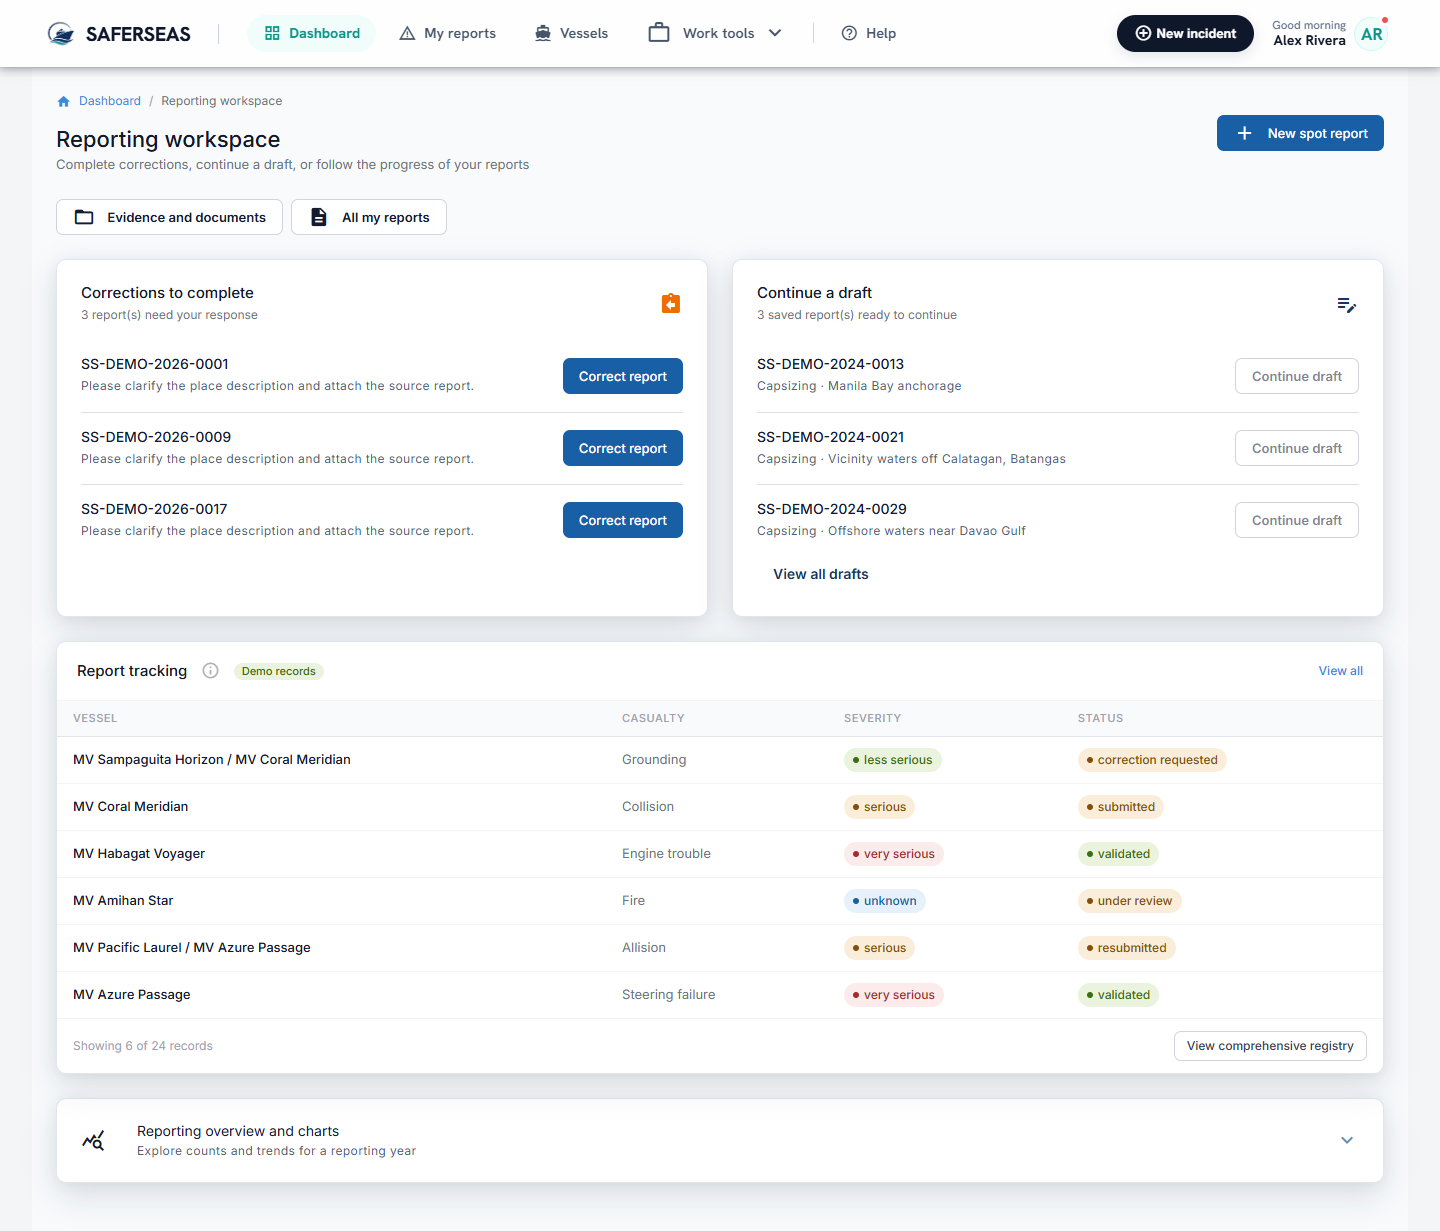
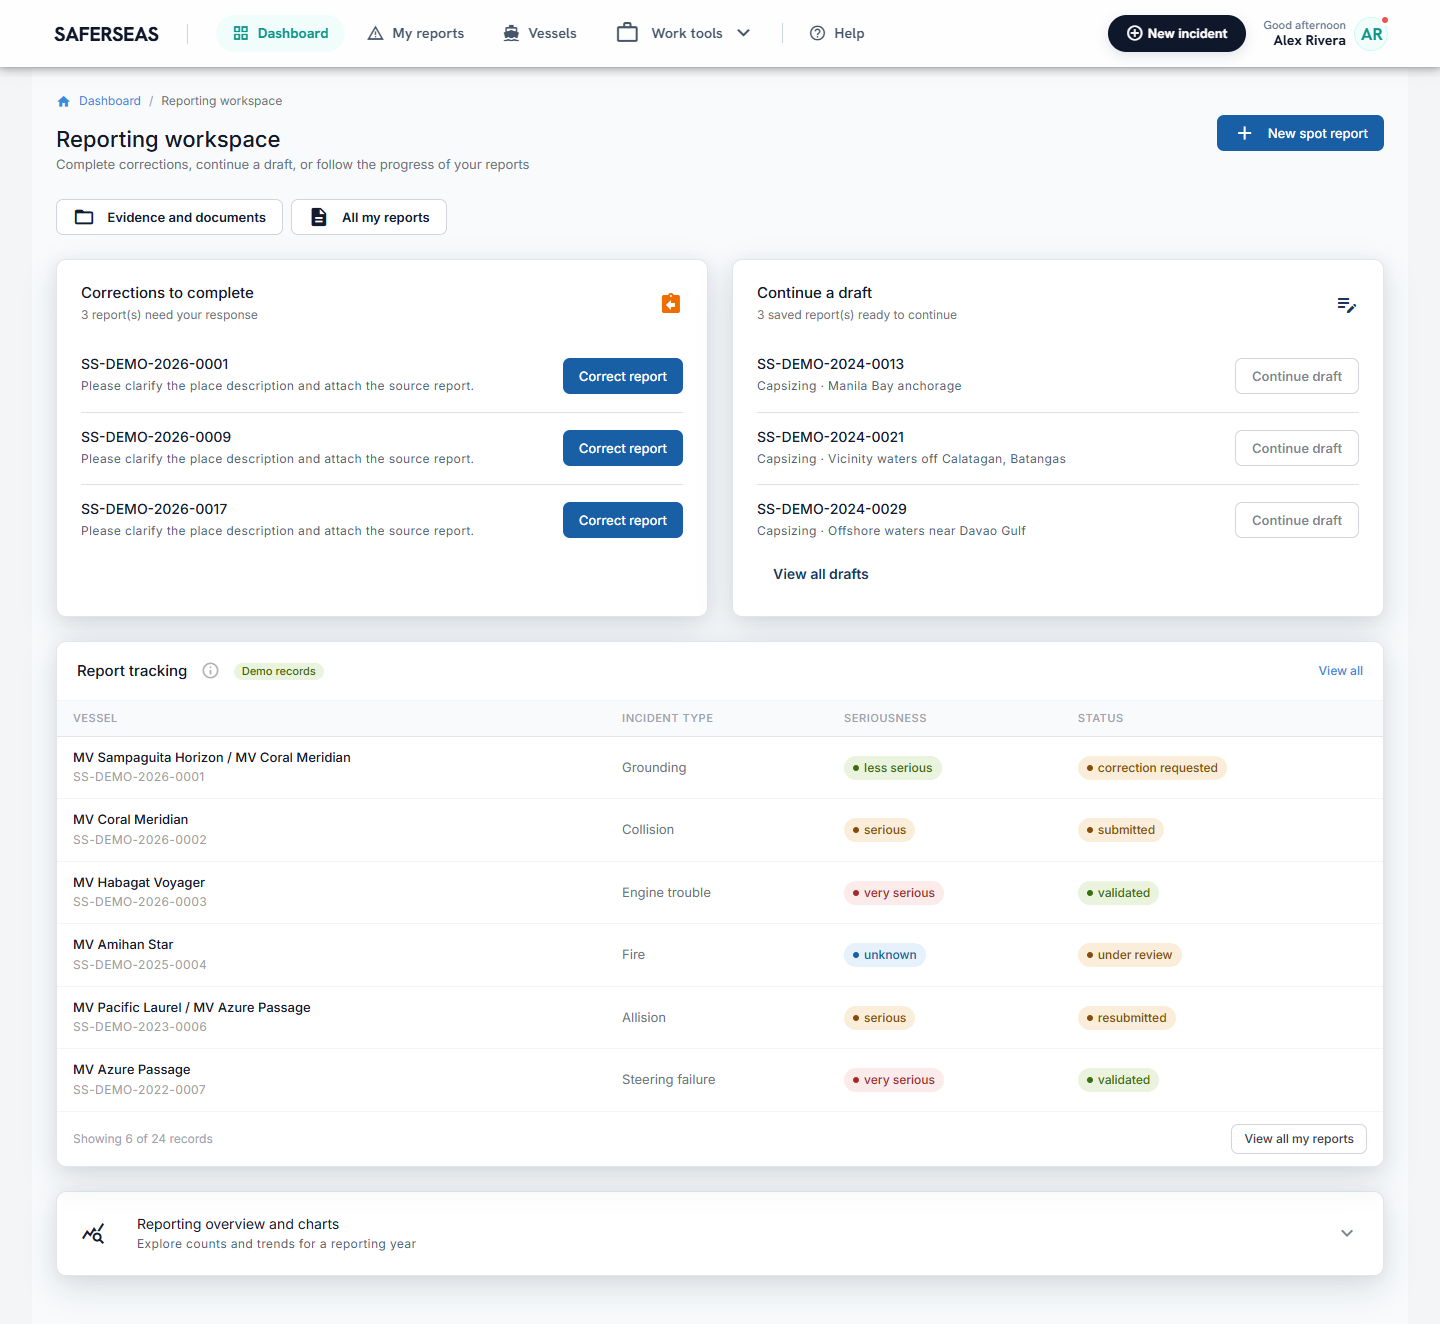
Record verified desktop usability deployment [skip ci]

diff --git a/prototype/docs/PROGRESS.md b/prototype/docs/PROGRESS.md
@@ -7,7 +7,7 @@ User approved the complete Vue/Quasar mockup, verification and update of the exi
 - Operations, MAIC revisions, cases/actions, registry and administration: complete.
 - Imports, reconciliation, 22 outputs, GIS, analytics, risk/policy: complete within documented prototype boundaries.
 - Developer handoff, 49-ID/22-output mapping, independent defect review and browser acceptance: complete.
-- Repository integration and live Pages verification: complete. Published source b5d841c; GitHub Actions run 42156571634 succeeded and the live site passed acceptance.
+- Repository integration and live Pages verification: complete. Latest published source a0fe102; GitHub Actions run 42161871084 succeeded and the desktop site passed acceptance.
 
 Material review fixes include scoped linked records/artifact history; preserved evidence and unique references on draft discard; visible storage failure; immutable complete output snapshots; archive access after import reversal; saved MAIC/spot observations/evidence; and retained import blockers. See tests and acceptance results.
 
@@ -19,7 +19,7 @@ Confirmed types: MRO Reporter, MRO Reviewer, MARINA Investigator. The user expli
 
 Completed: corrections/drafts first; compact essential intake; shared operational tools; labeled grouped navigation; received/update review queue; five-section review; staged MAIC editing; common reports and choose/preview/download; explicit incident selection; preserved fields/revisions/evidence/exports. Account migration, central privilege caps, scope and both author correction cycles verified. See USABILITY_REWORK.md and VERIFICATION.md.
 
-Latest rework deployment: pending publication and live acceptance.
+Latest rework deployment: complete. Run 42161871084 passed; 19 published desktop checks passed across all three accounts.
 
 ## Account and usability rework
 
@@ -27,4 +27,4 @@ Confirmed types: MRO Reporter, MRO Reviewer, MARINA Investigator. The user expli
 
 Completed: corrections/drafts first; compact essential intake; shared operational tools; labeled grouped navigation; received/update review queue; five-section review; staged MAIC editing; common reports and choose/preview/download; explicit incident selection; preserved fields/revisions/evidence/exports. Account migration, central privilege caps, scope and both author correction cycles verified. See USABILITY_REWORK.md and VERIFICATION.md.
 
-Latest rework deployment: pending publication and live acceptance.
+Latest rework deployment: complete. Run 42161871084 passed; 19 published desktop checks passed across all three accounts.

diff --git a/prototype/docs/VERIFICATION.md b/prototype/docs/VERIFICATION.md
@@ -22,4 +22,10 @@ The three confirmed account types are MRO Reporter, MRO Reviewer and MARINA Inve
 
 Tests establish mockup behavior, not backend security, official MARINA approval, real upload/email processing, approved risk/legal rules or signed official forms. PDF remains browser print/save. All supplied MARINA files remain outside this public demonstration.
 
-The previous version was published and checked. Deployment and live checks for this usability revision are recorded below after publication.
+## Published desktop revision
+
+[Deployment 42161871084](https://github.com/avsalang/Saferseasdashboard-main/actions/runs/42161871084) successfully installed locked dependencies, passed all 33 unit/regression checks, built and deployed the site. App source: `a0fe102af963ad3d91ad421ff25f6890f92964cd`.
+
+[The live site](https://avsalang.github.io/Saferseasdashboard-main/) passed 19 desktop checks across the three account types: task-first pages, separate review/correction queues, shared operational access, explicit incident choice for documents, central-only controls and repository-subpath refresh. No page exceptions. See [live acceptance](live-acceptance-results.json).
+
+Desktop usability is the primary target, per the user's latest instruction. Existing responsive behavior is retained without a separate mobile redesign.
